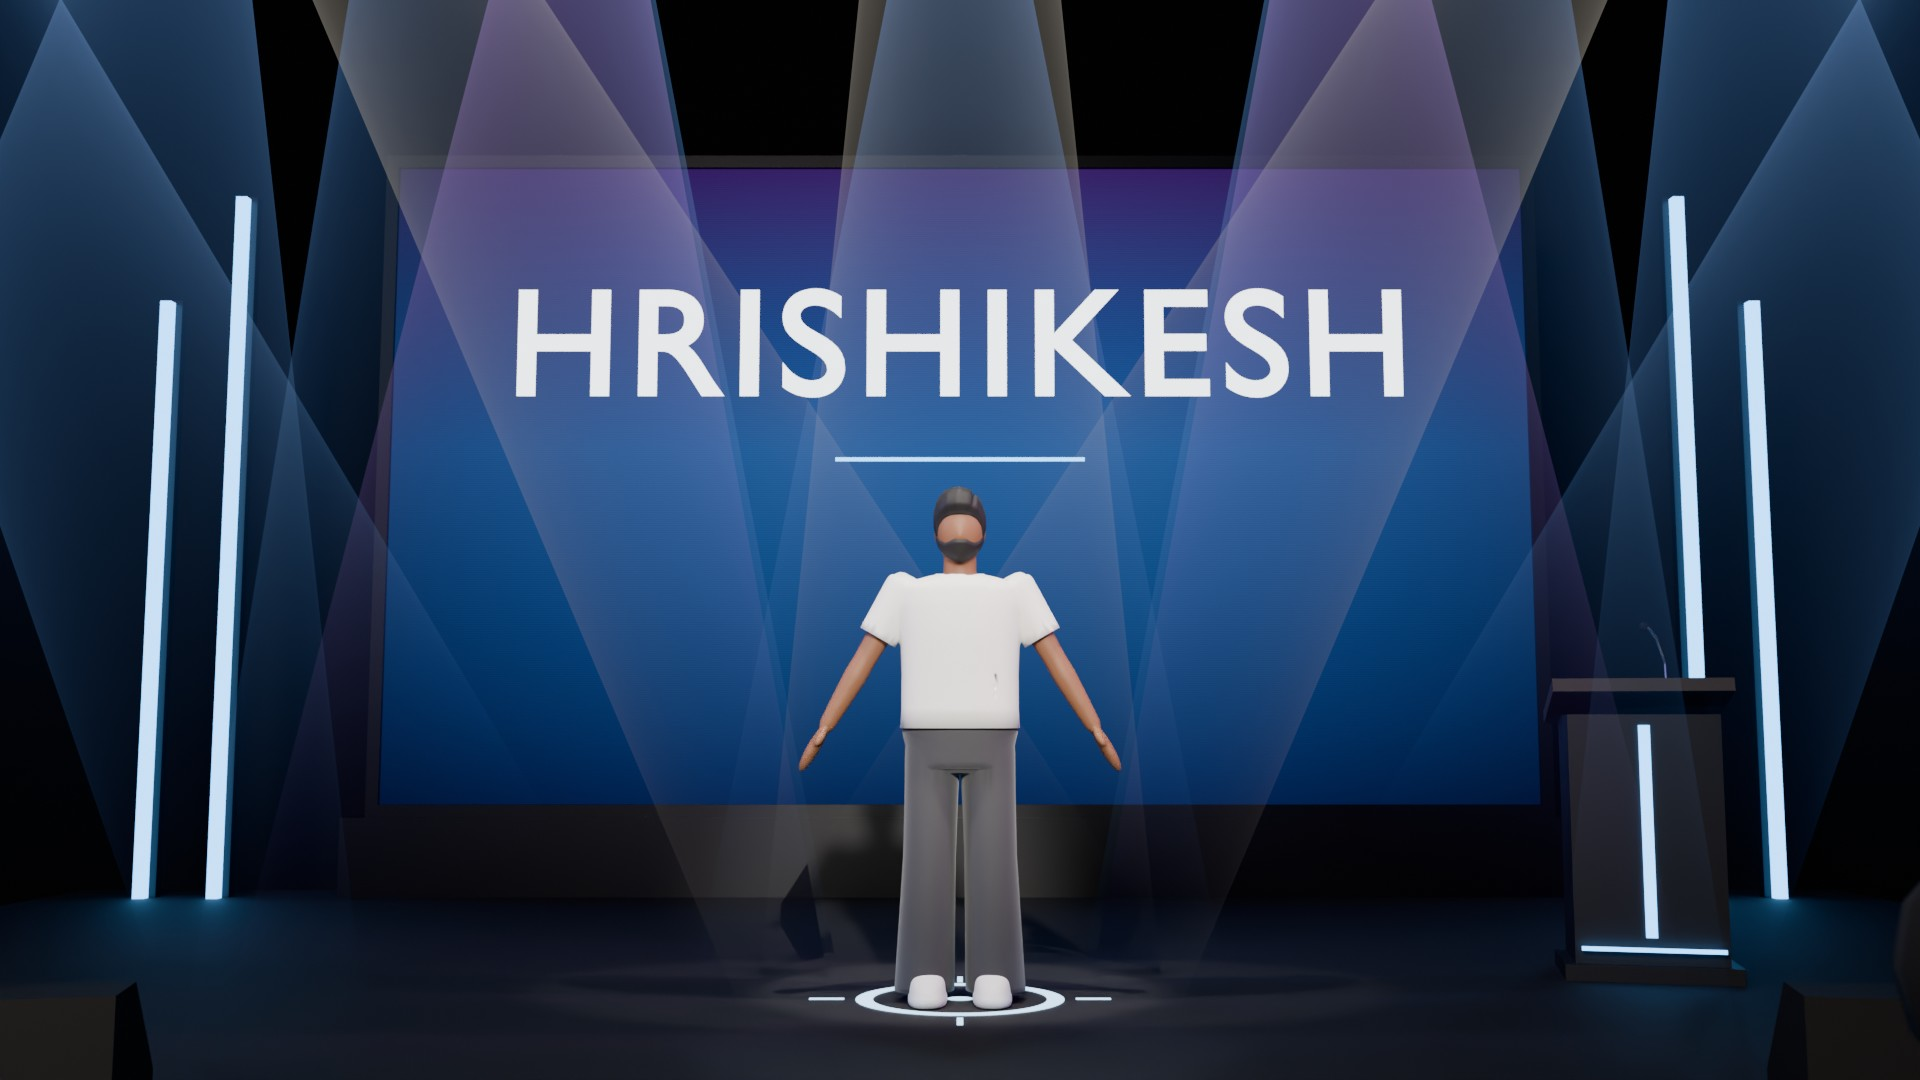
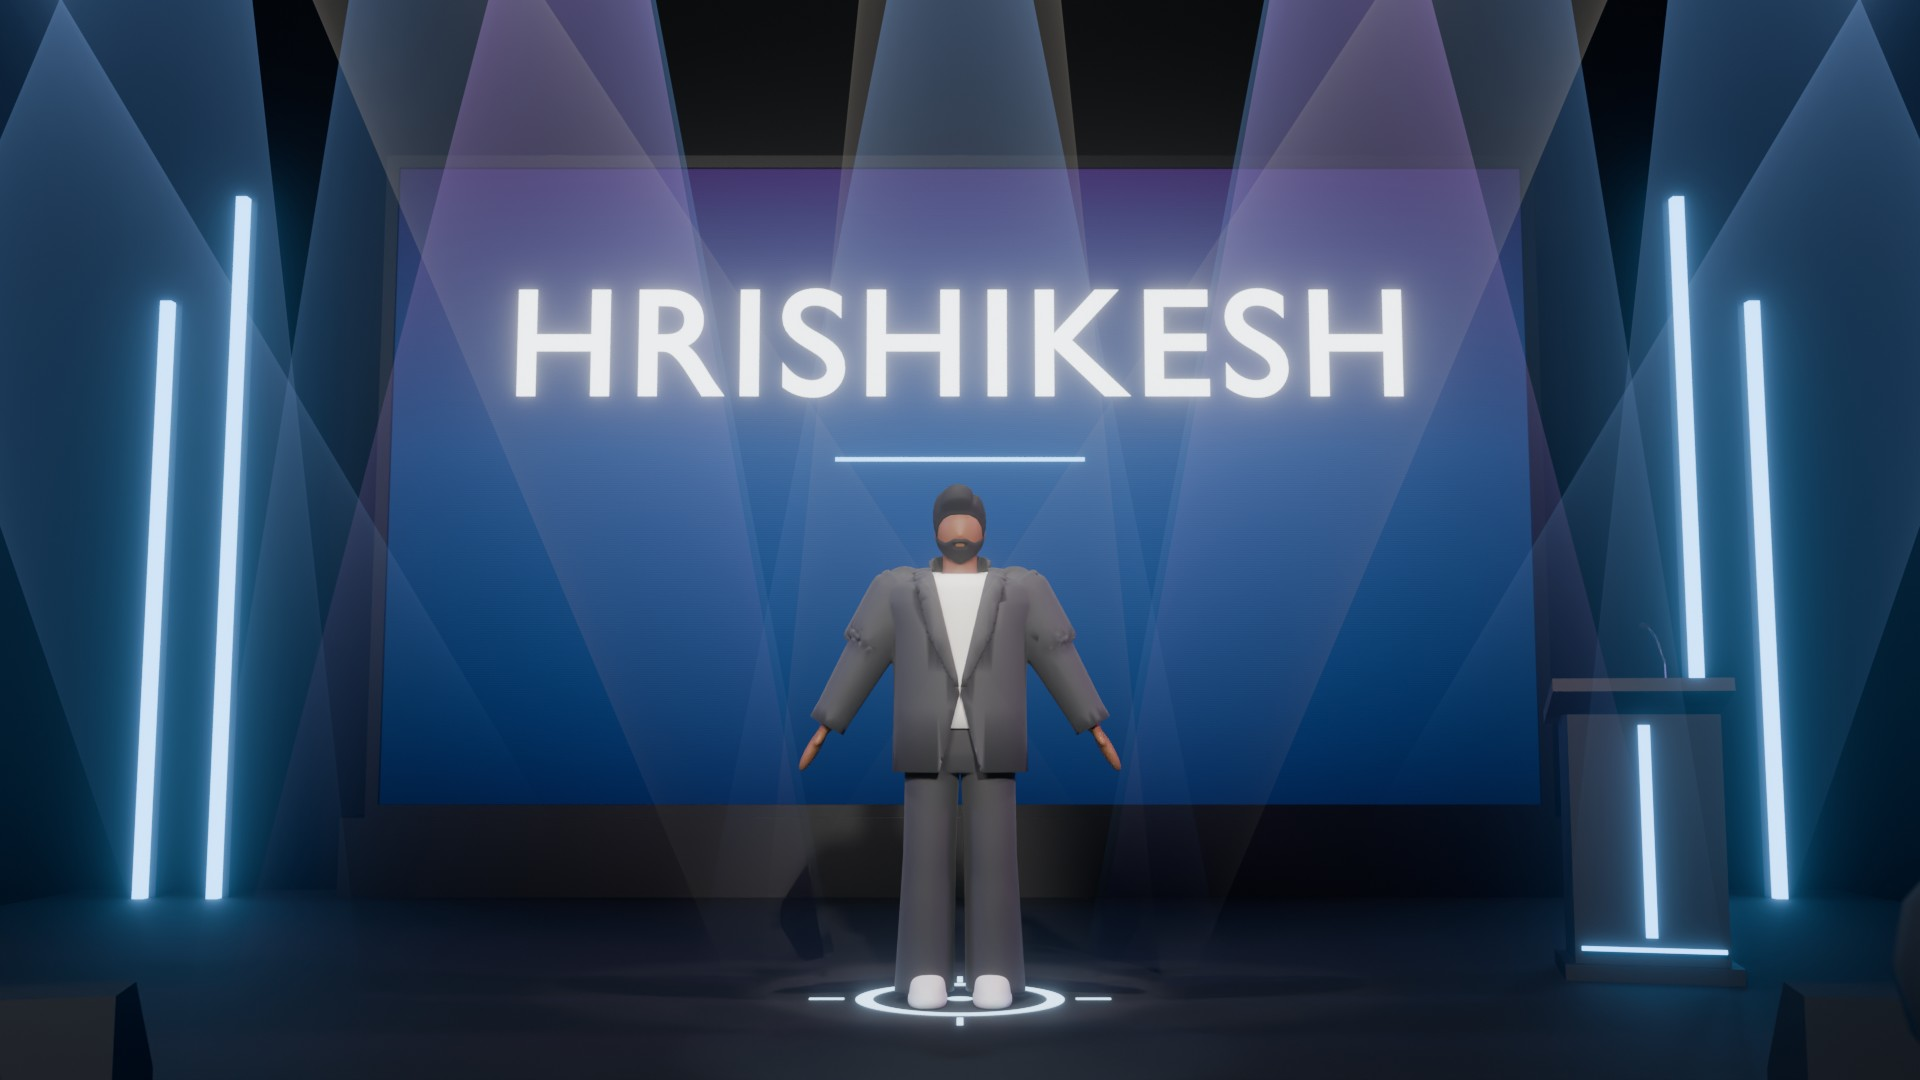
Stage: hero.jpg with full look (tee, blazer, wide trousers, sneakers), bloom

diff --git a/blender/stage/render_hero.py b/blender/stage/render_hero.py
@@ -204,7 +204,7 @@ def colour_cones():
     mats = {}
     for k, col in palette.items():
         m = bpy.data.materials.new("hero_cone_" + k)
-        cone_material(m, col, 0.22 if k == "warm" else 0.30)
+        cone_material(m, col, 0.12 if k == "warm" else 0.30)
         mats[k] = m
     for o in parts:
         ws = [o.matrix_world @ v.co for v in o.data.vertices]
@@ -278,7 +278,7 @@ def dress_avatar():
             rough = {"top_tee": 0.85, "outer_blazer": 0.7, "bottom_wide": 0.75, "shoe_sneaker": 0.5}[base]
             b.inputs["Roughness"].default_value = rough
             try:
-                b.inputs["Sheen Weight"].default_value = 0.3 if base != "shoe_sneaker" else 0.0
+                b.inputs["Sheen Weight"].default_value = 0.08 if base != "shoe_sneaker" else 0.0
             except Exception:
                 pass
             ob.data.materials.clear()
@@ -355,7 +355,7 @@ def showtime_lights(has_avatar):
     chest = mark + Vector((0, 0, 1.1))
     for key in ("L", "C", "R"):
         s = find("spot_" + key).matrix_world.translation.copy()
-        energy = 2600 if key == "C" else 1800
+        energy = (1700 if key == "C" else 1100) if has_avatar else (2600 if key == "C" else 1800)
         spot("hero_spot_" + key, s, mark + Vector((0, 0, 0.9 if has_avatar else 0.0)),
              (1.0, 0.94, 0.86), energy, 17 if key == "C" else 15, blend=0.35)
     # colour washes from the upstage flown span (back light) and the side towers
@@ -369,7 +369,7 @@ def showtime_lights(has_avatar):
     if has_avatar:
         # front-of-house follow spot on the presenter, slightly off axis
         spot("hero_follow", W(1.8, 6.5, 15.0), mark + Vector((0, 0, 1.15)), (1.0, 0.95, 0.88),
-             26000, 6.5, blend=0.6, radius=0.3)
+             15000, 6.5, blend=0.6, radius=0.3)
         # cool rim from upstage high
         spot("hero_rim", W(0.0, 6.5, -2.6), mark + Vector((0, 0, 1.4)), (0.55, 0.7, 1.0), 2200, 14, blend=0.5)
     # faint house spill on the audience
